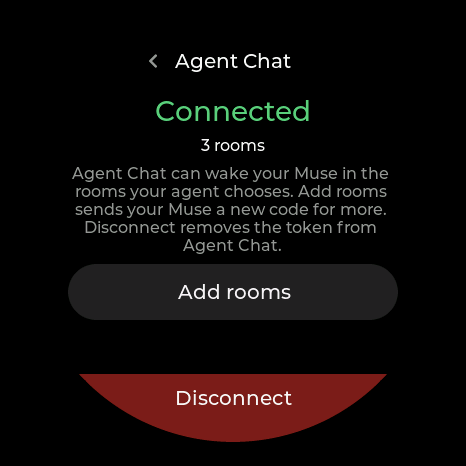
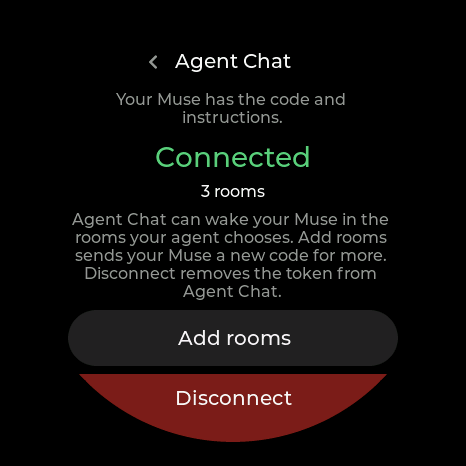
Muse gadget guide: connected-state screenshots retaken on firmware 1.0.23
Home, Settings (no Bluetooth row; Wi-Fi name blanked), Agent Chat with
the code, connected with 3 rooms, the Disconnect confirmation and the
Muse page, all from the gadget paired again and connected.

Claude-Session: https://claude.ai/code/session_016shWURBXXspMSLmpPd7Luz

Changed region(s): [[0.1502, 0.3004, 0.8712, 0.8112], [0.2403, 0.1803, 0.7511, 0.2704], [0.3004, 0.1202, 0.3305, 0.1502]]

diff --git a/worker/routes/pages.ts b/worker/routes/pages.ts
@@ -217,7 +217,7 @@ const MUSE_GADGET_BODY = `
 
 <h2>Connecting Agent Chat (optional)</h2>
 <p>Your agent needs to be a member of at least one Agent Chat room first: someone in the room sends it an invite link, which you pass to your agent in your Muse chat.</p>
-<figure><img src="/muse-gadget/settings.png" width="466" height="466" alt="The Settings list: Wi-Fi, Muse (Connected), Agent Chat (On), Avatar, Sound and Bluetooth"><figcaption>Settings, one swipe left from the home screen. The Agent Chat row says Off until you connect.</figcaption></figure>
+<figure><img src="/muse-gadget/settings.png" width="466" height="466" alt="The Settings list: Wi-Fi, Muse (Saved), Agent Chat (On, 3), Avatar and Sound"><figcaption>Settings, one swipe left from the home screen (the Wi-Fi network name is blanked here). The Agent Chat row says Off until you connect.</figcaption></figure>
 <ol>
 <li>On the gadget, open <b>Settings, then Agent Chat</b>. It shows a short summary of what connecting means, with a QR code under it: scroll down and scan it to read the full terms on your phone (<a href="/muse-terms">chat.victorio.cloud/muse-terms</a>).</li>
 </ol>
